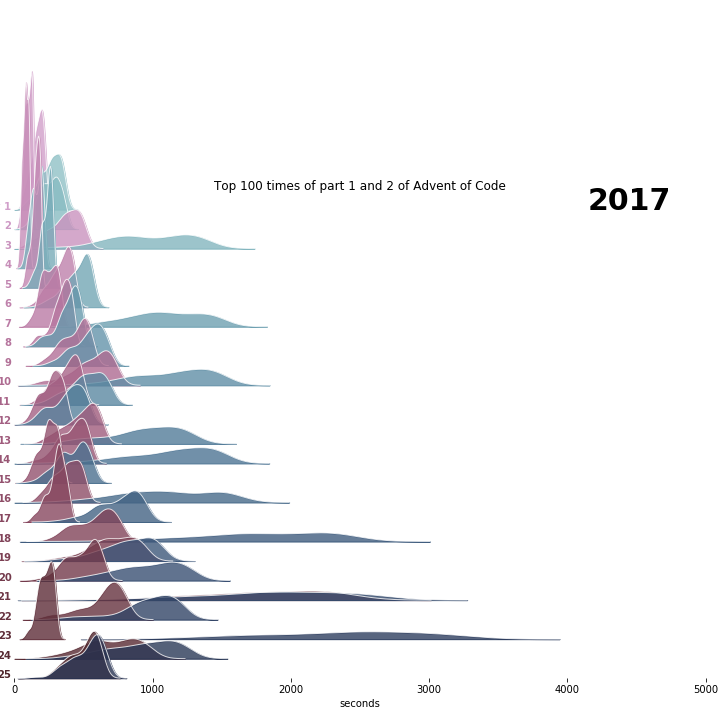
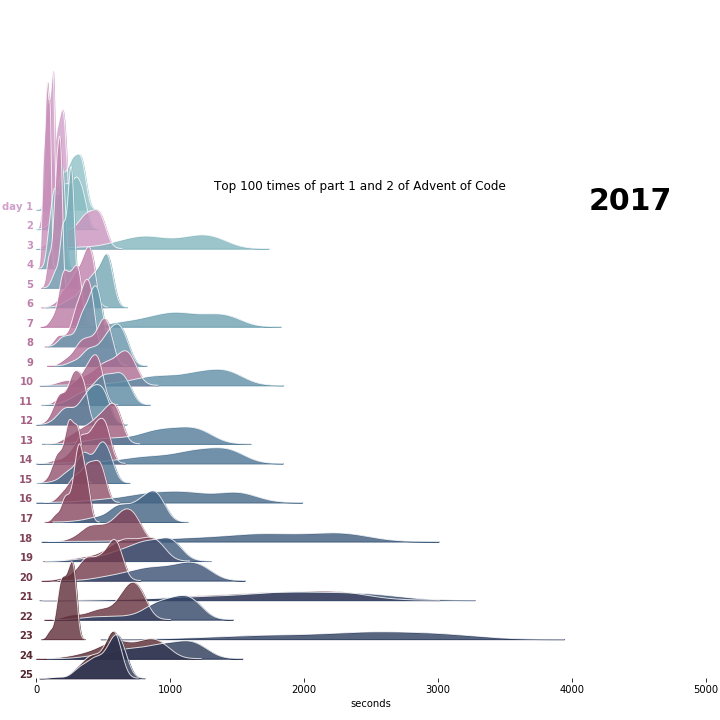
left side figures is not cropped anymore

diff --git a/plot_times.py b/plot_times.py
@@ -2,4 +2,46 @@ import pandas as pd
 import seaborn as sns
 import matplotlib.pyplot as plt
 
+# Source https://github.com/mevdschee/aoc-stats
 scores = pd.read_csv("scores.csv")
+
+days = scores["day"].max()
+cubehelix_kwargs = dict(n_colors=days, rot=-.25, light=.7, dark=.2)
+color_star1 = sns.cubehelix_palette(start=1, **cubehelix_kwargs)
+color_star2 = sns.cubehelix_palette(**cubehelix_kwargs)
+
+for year in scores["year"].unique():
+    f, axs = plt.subplots(days, 1, figsize=(10, 10), sharex=True, sharey=True)
+    for (stars, day), times in scores.query(f'year == {year}').groupby("stars day".split()):
+        ax = axs[day - 1]
+
+        # plot kernel density estimate (kde)
+        color = color_star1[day - 1] if stars == 1 else color_star2[day - 1]
+        kdeplot_kwargs = dict(x=times["seconds"], ax=ax, clip_on=False, alpha=0.8, clip=(0, 5000))
+        sns.kdeplot(**kdeplot_kwargs, fill=True, color=color)
+        # kde outline
+        sns.kdeplot(**kdeplot_kwargs, color="w", linewidth=1)
+
+        # hide all ticks except for the last graphs x-axis
+        ax.get_yaxis().set_visible(False)
+        if day < 25:
+            ax.get_xaxis().set_visible(False)
+
+        # hide all spines
+        for side in "top bottom left right".split():
+            ax.spines[side].set_visible(False)
+
+        ax.patch.set_alpha(0)
+
+        # day labels
+        if stars == 1:
+            d = day if day > 1 else "day 1"
+            ax.text(-20, 0, d, ha='right', color=color, fontdict=dict(weight='bold'))
+
+    f.tight_layout()
+    f.subplots_adjust(hspace=-0.9, left=0.05)
+    plt.suptitle("Top 100 times of part 1 and 2 of Advent of Code", y=0.75)
+    axs[0].text(5000*0.95, 0, year, fontdict=dict(fontsize=30, fontweight='bold'), ha='right')
+    plt.xlim(0, 5000)
+    plt.savefig(f"{year}.png")
+    plt.show()
